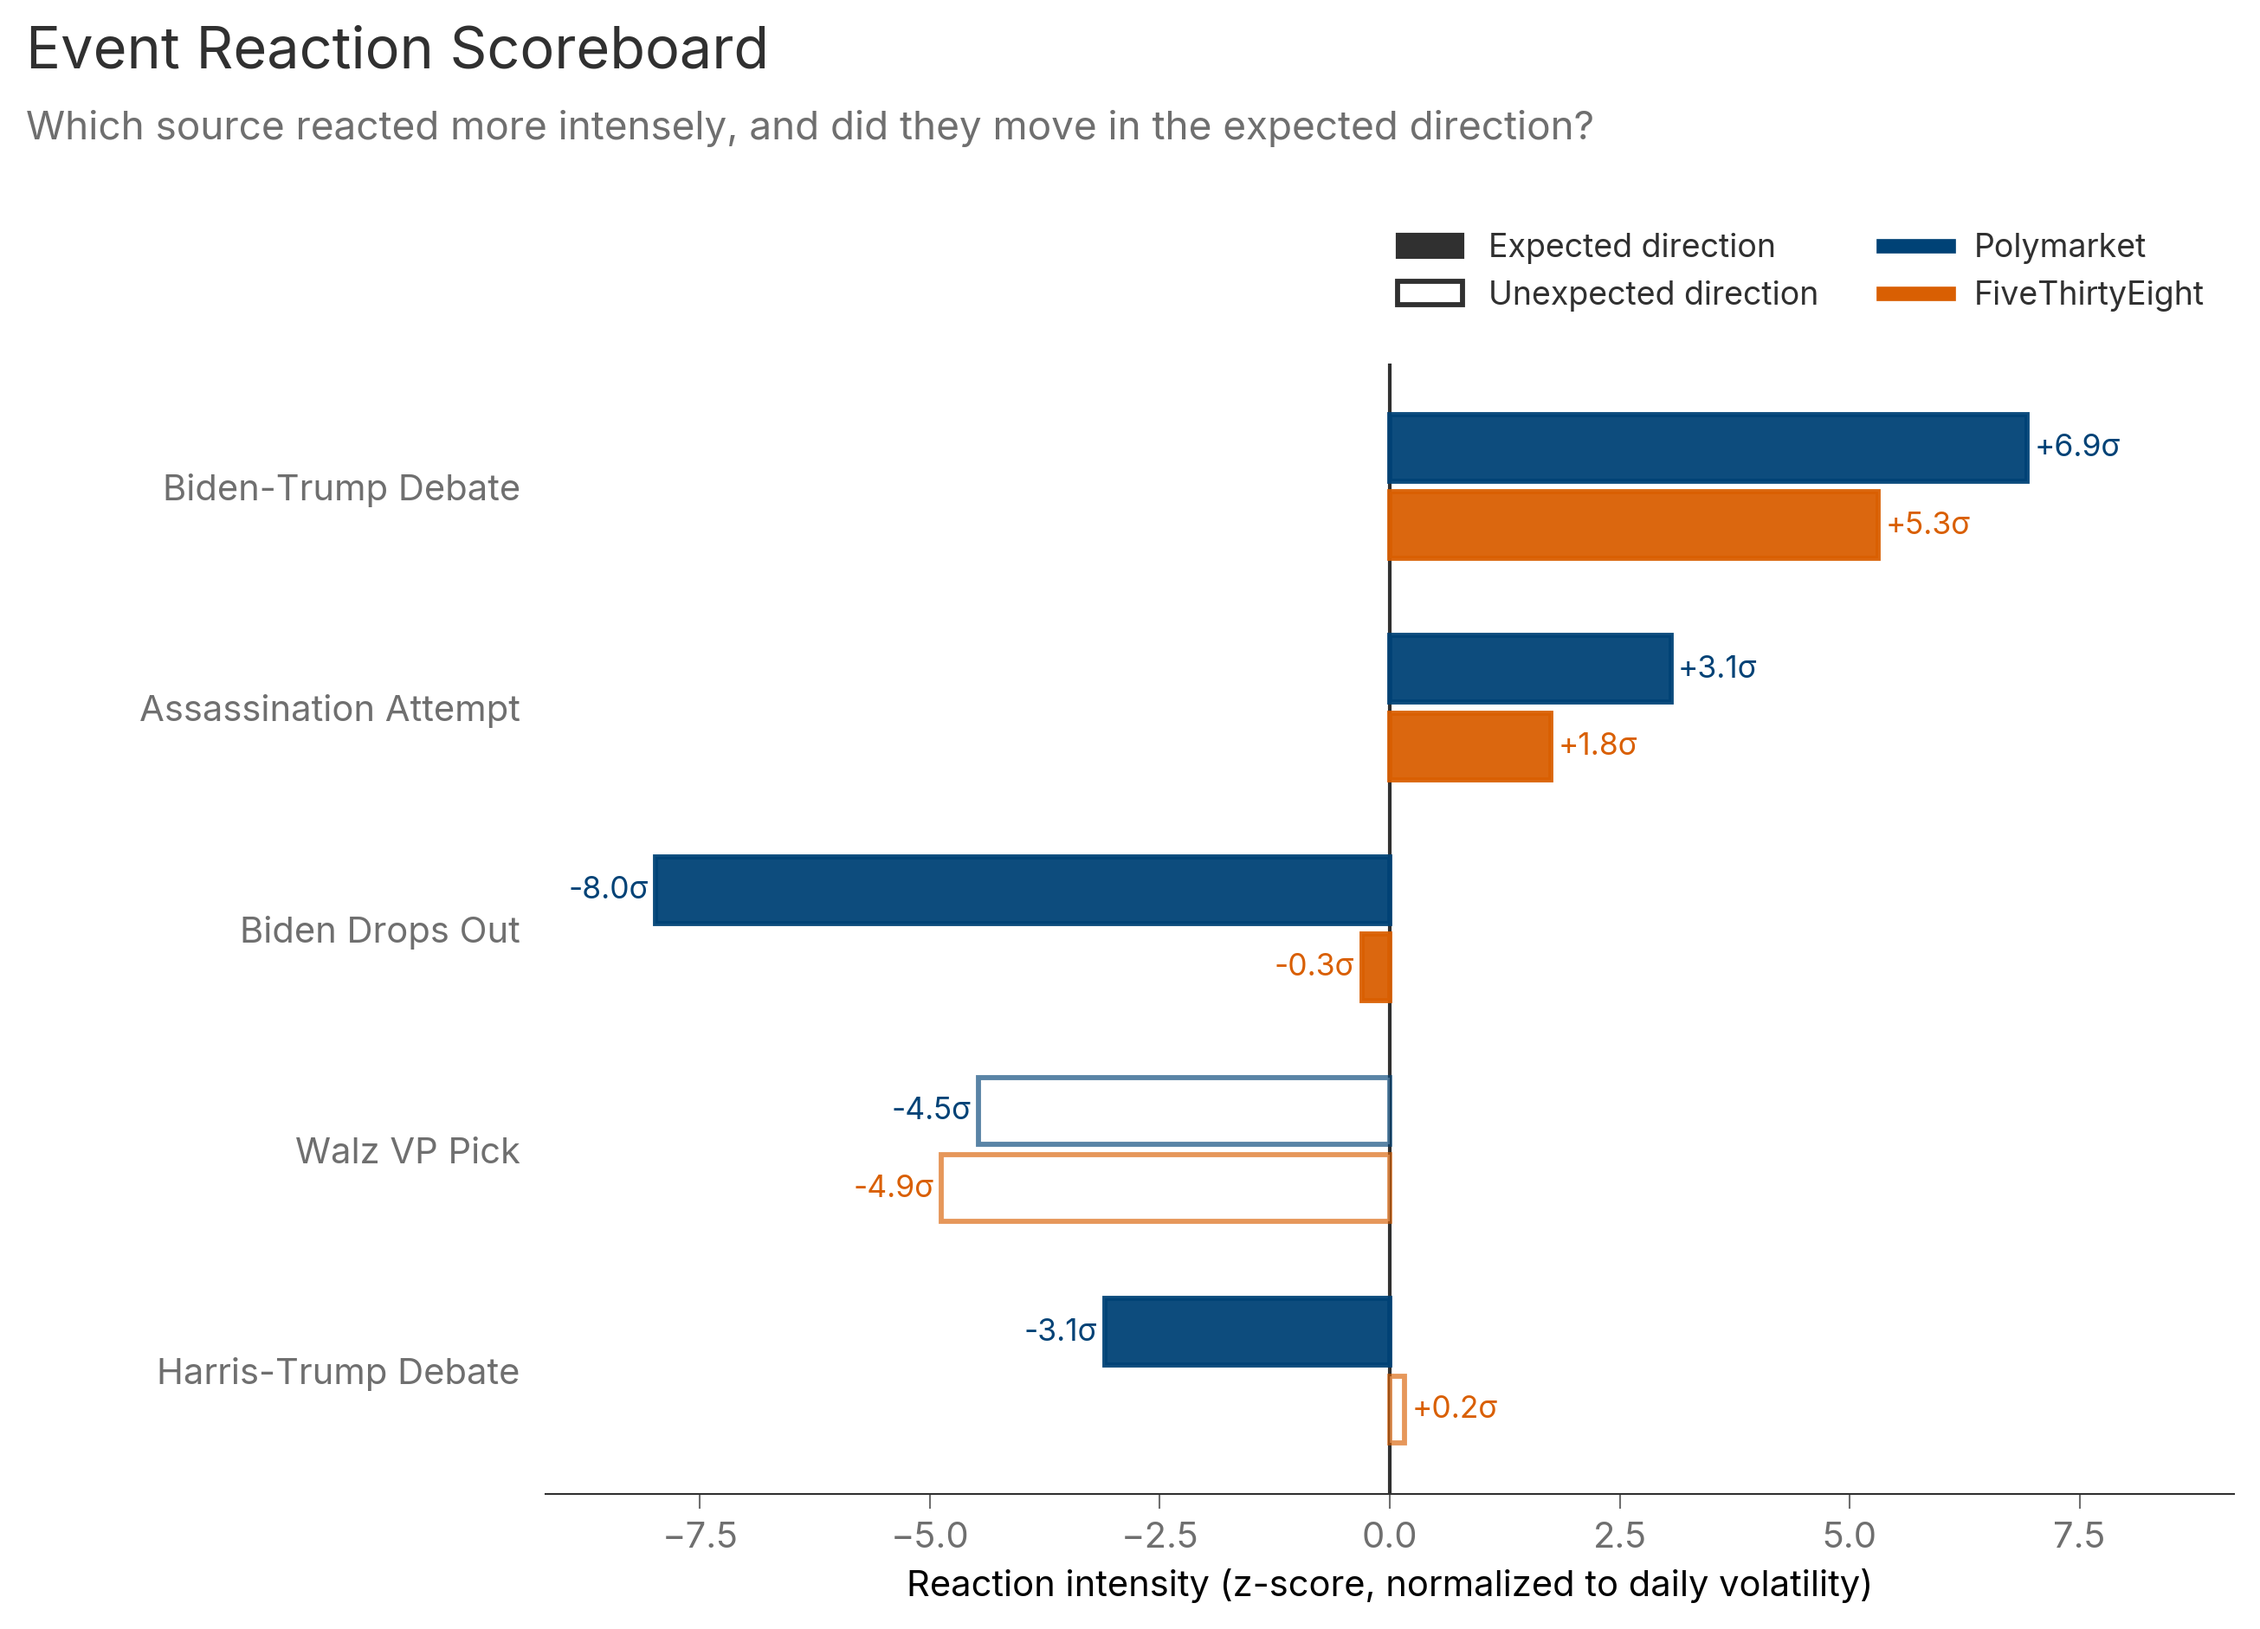
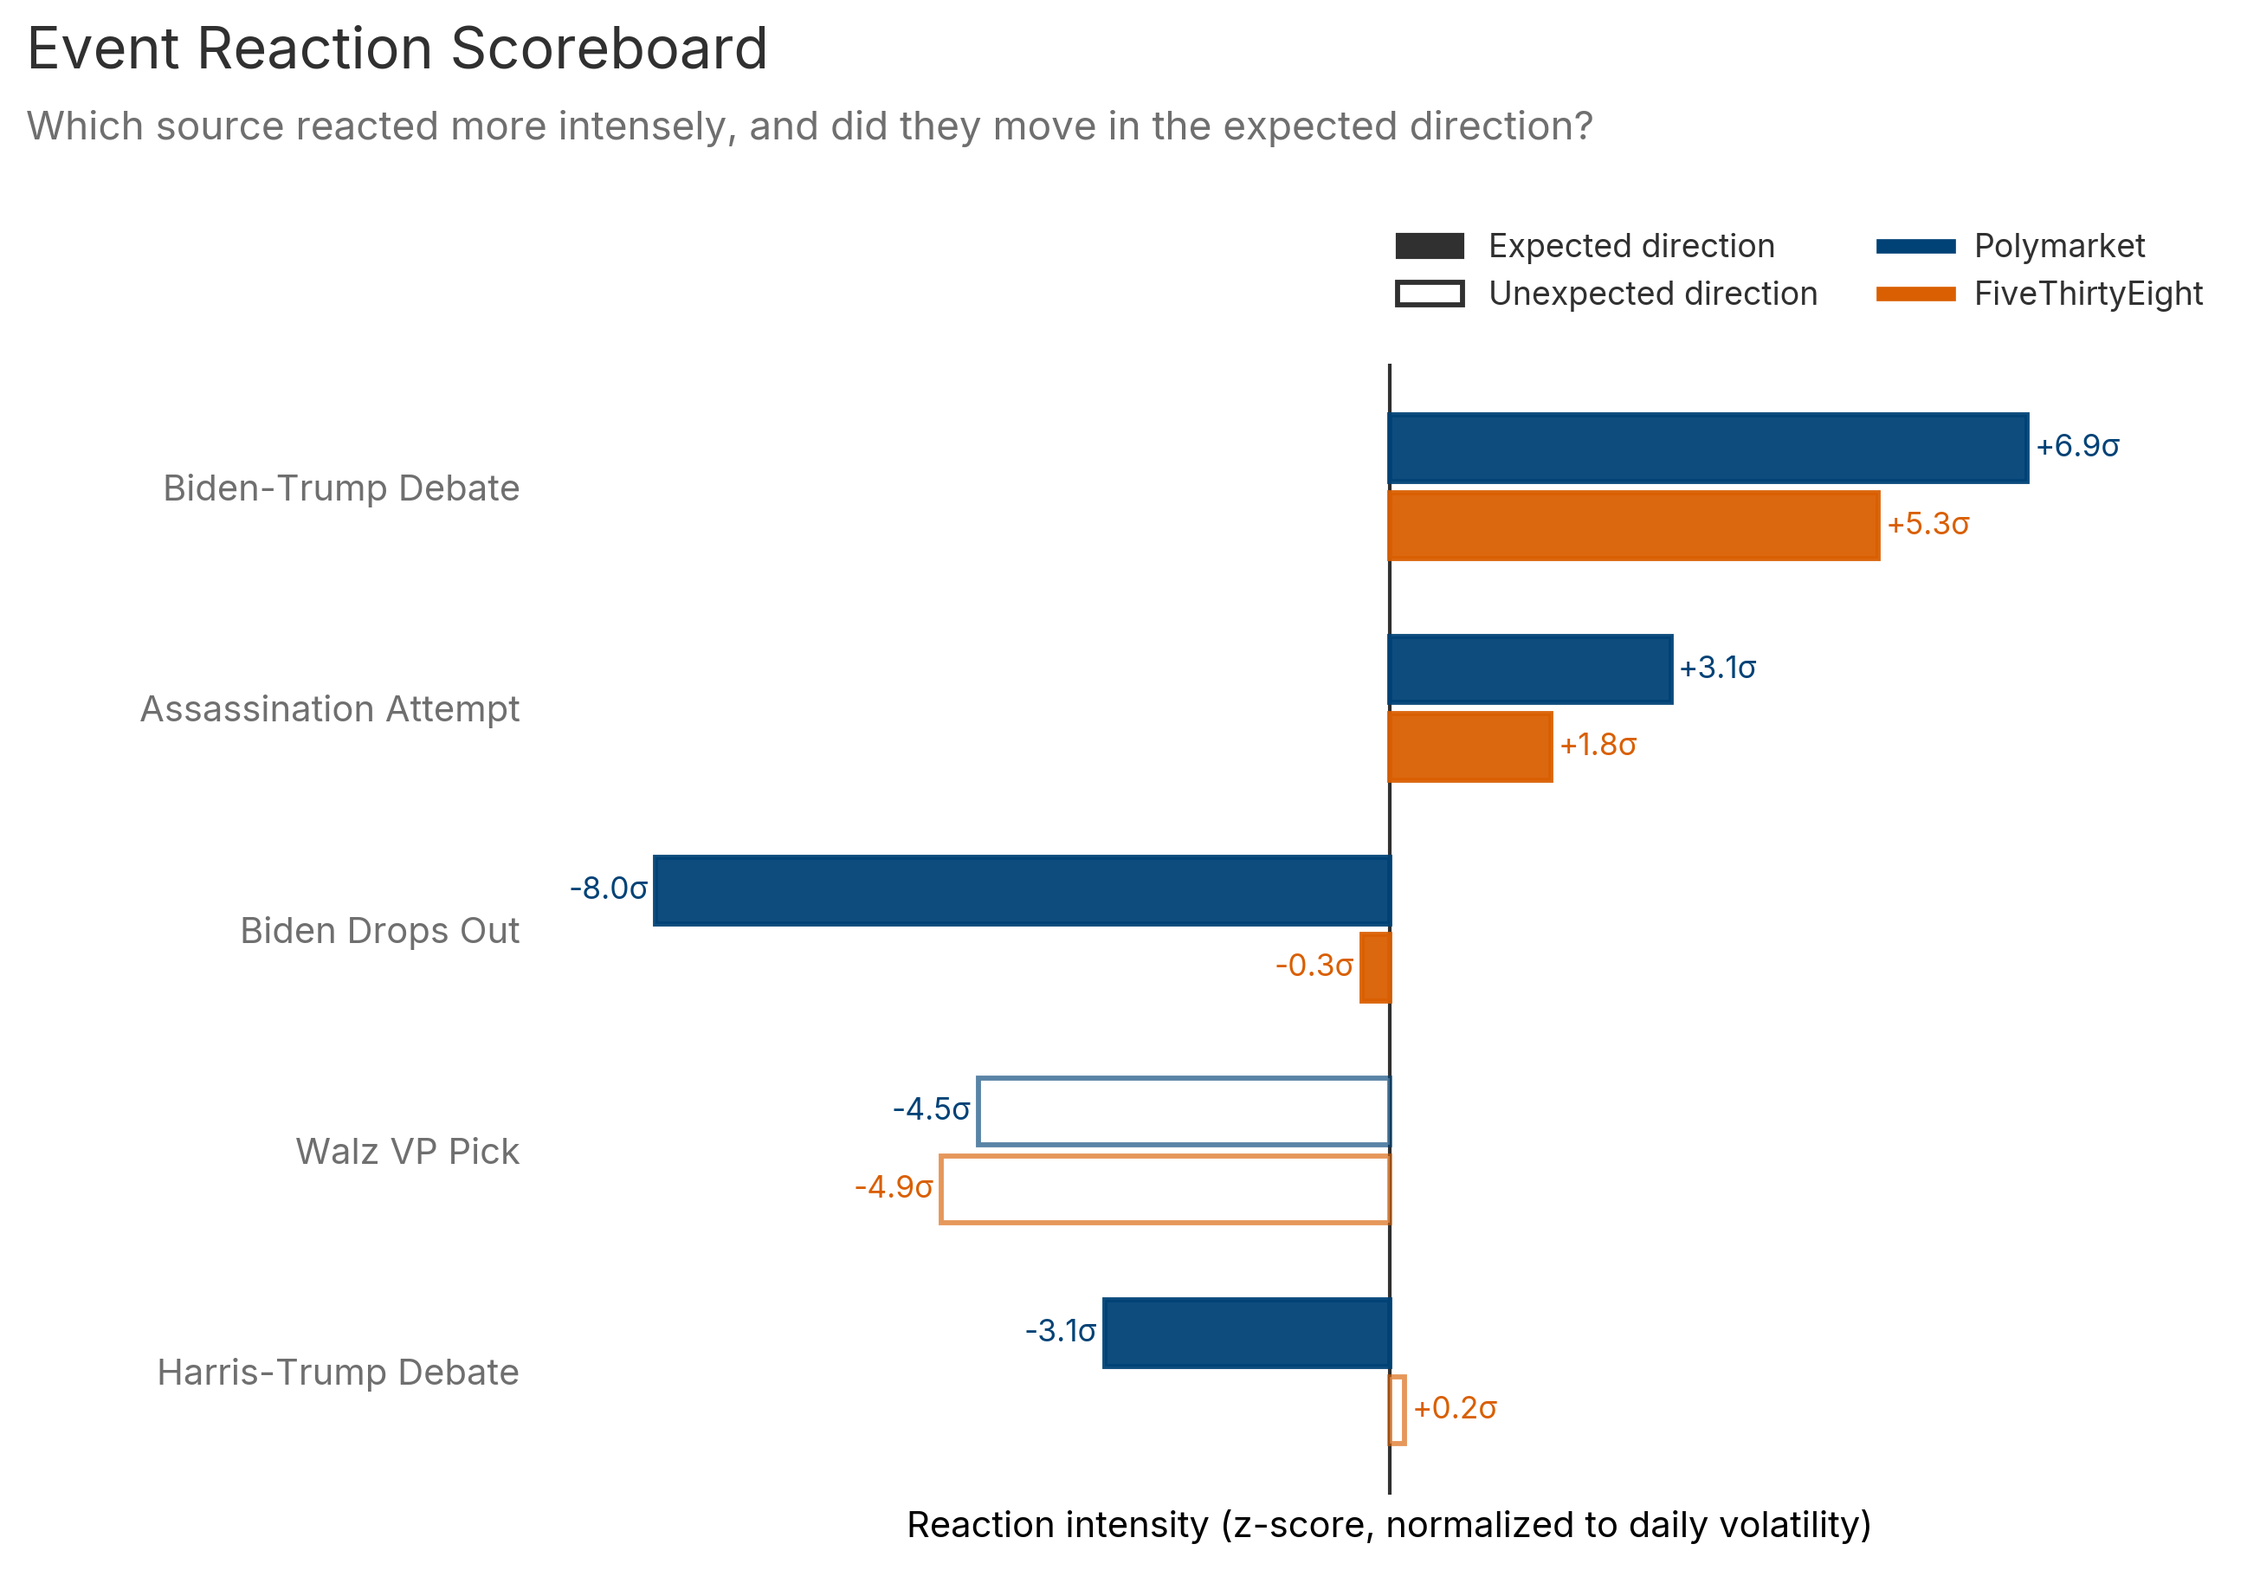
less is more event plots

diff --git a/src/visualize/event_plots.py b/src/visualize/event_plots.py
@@ -169,7 +169,6 @@ def plot_event_timeline(pm_swing, p538_swing):
 
     fig, ax1 = plt.subplots(figsize=(14, 6.5))
     fig.subplots_adjust(top=0.78, right=0.82)
-    ax1.grid(axis="y")
 
     ax2 = ax1.twinx()
     
@@ -320,6 +319,8 @@ def plot_reaction_scoreboard(summary):
     ax.set_yticklabels(event_names)
     ax.invert_yaxis()
     ax.set_xlabel("Reaction intensity (z-score, normalized to daily volatility)")
+    ax.spines["bottom"].set_visible(False)
+    ax.tick_params(axis="x", which="both", bottom=False, labelbottom=False)
     ax.grid(False)
 
     legend_elements = [
@@ -369,19 +370,42 @@ def plot_indexed_event_study(pm_swing, p538_swing):
     ax2.spines["right"].set_visible(False)
 
     _align_dual_axes(ax1, ax2)
+    ax1.tick_params(axis="y", colors=THEME.PM_COLOR)
+    ax2.tick_params(axis="y", colors=THEME.F38_COLOR)
     ax1.axvline(0, color=THEME.TEXT_MAIN, linewidth=1, linestyle=":", zorder=2)
     ax1.axhline(0, color=THEME.TEXT_MAIN, linewidth=1, zorder=2)
-    ax1.text(0, ax1.get_ylim()[1] * 0.95, " Biden withdraws", color=THEME.TEXT_MAIN, fontsize=9)
+    ax1.text(
+        0,       # x-coordinate in data space (Day 0)
+        0.04,    # y-coordinate in axes space (4% up from the bottom spine)
+        "Biden withdraws", 
+        color=THEME.TEXT_MAIN, 
+        fontsize=9,
+        ha="center", 
+        va="bottom",
+        transform=ax1.get_xaxis_transform(), # Blends data x-coords and fractional y-coords
+        bbox=dict(facecolor="white", edgecolor="none", pad=4), # The invisible mask
+        zorder=3 # Ensures the text sits above the axvline (which is zorder=2)
+    )
 
-    ax1.legend(
-        handles=[
-            Line2D([0], [0], color=THEME.PM_COLOR, lw=3, label="Polymarket (percentage points)"),
-            Line2D([0], [0], color=THEME.F38_COLOR, lw=3, label="FiveThirtyEight (vote share points)"),
-        ],
-        loc="lower left",
-        frameon=False,
-        fontsize=10,
-        borderaxespad=1.5,
+    # Left Axis Title (Polymarket)
+    ax1.set_ylabel(
+        "Polymarket\n(percentage points)", 
+        color=THEME.PM_COLOR, 
+        fontsize=11, 
+        fontweight="bold",
+        linespacing=1.4,
+        labelpad=10
+    )
+
+    # Right Axis Title (FiveThirtyEight)
+    ax2.set_ylabel(
+        "FiveThirtyEight\n(vote share points)", 
+        color=THEME.F38_COLOR, 
+        fontsize=11, 
+        fontweight="bold",
+        linespacing=1.4,
+        rotation=270,  # Flips text so the baseline points towards the axis
+        labelpad=40    # Extra padding to clear the tick labels
     )
 
     pm_lag = _steepest_drop_day(pm_window)
